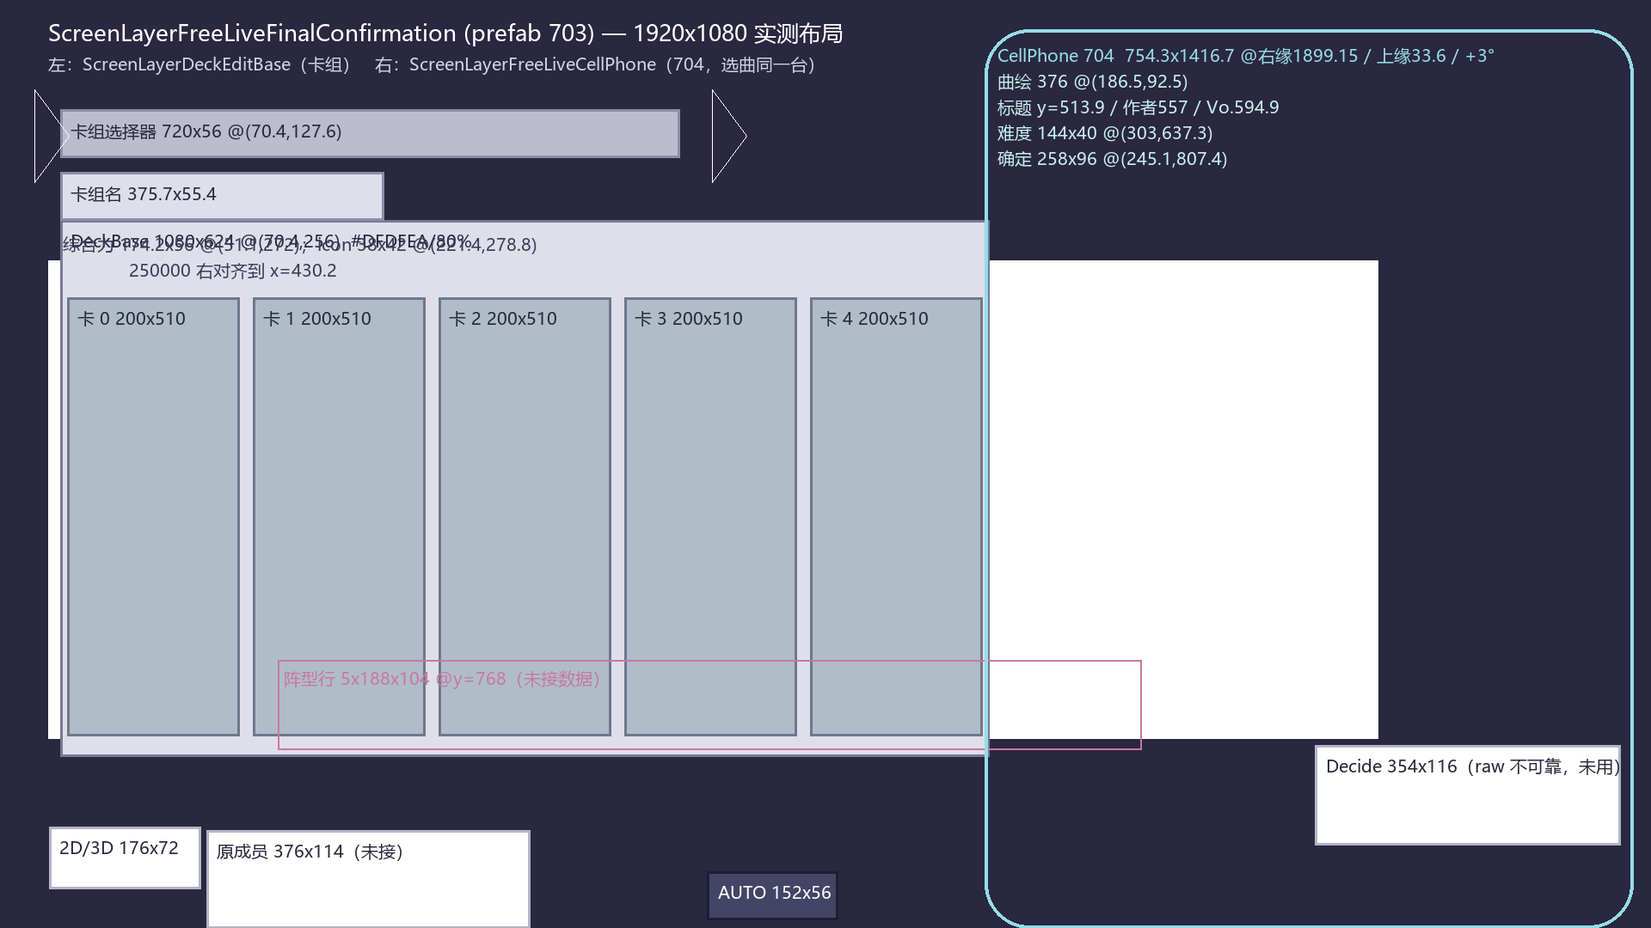
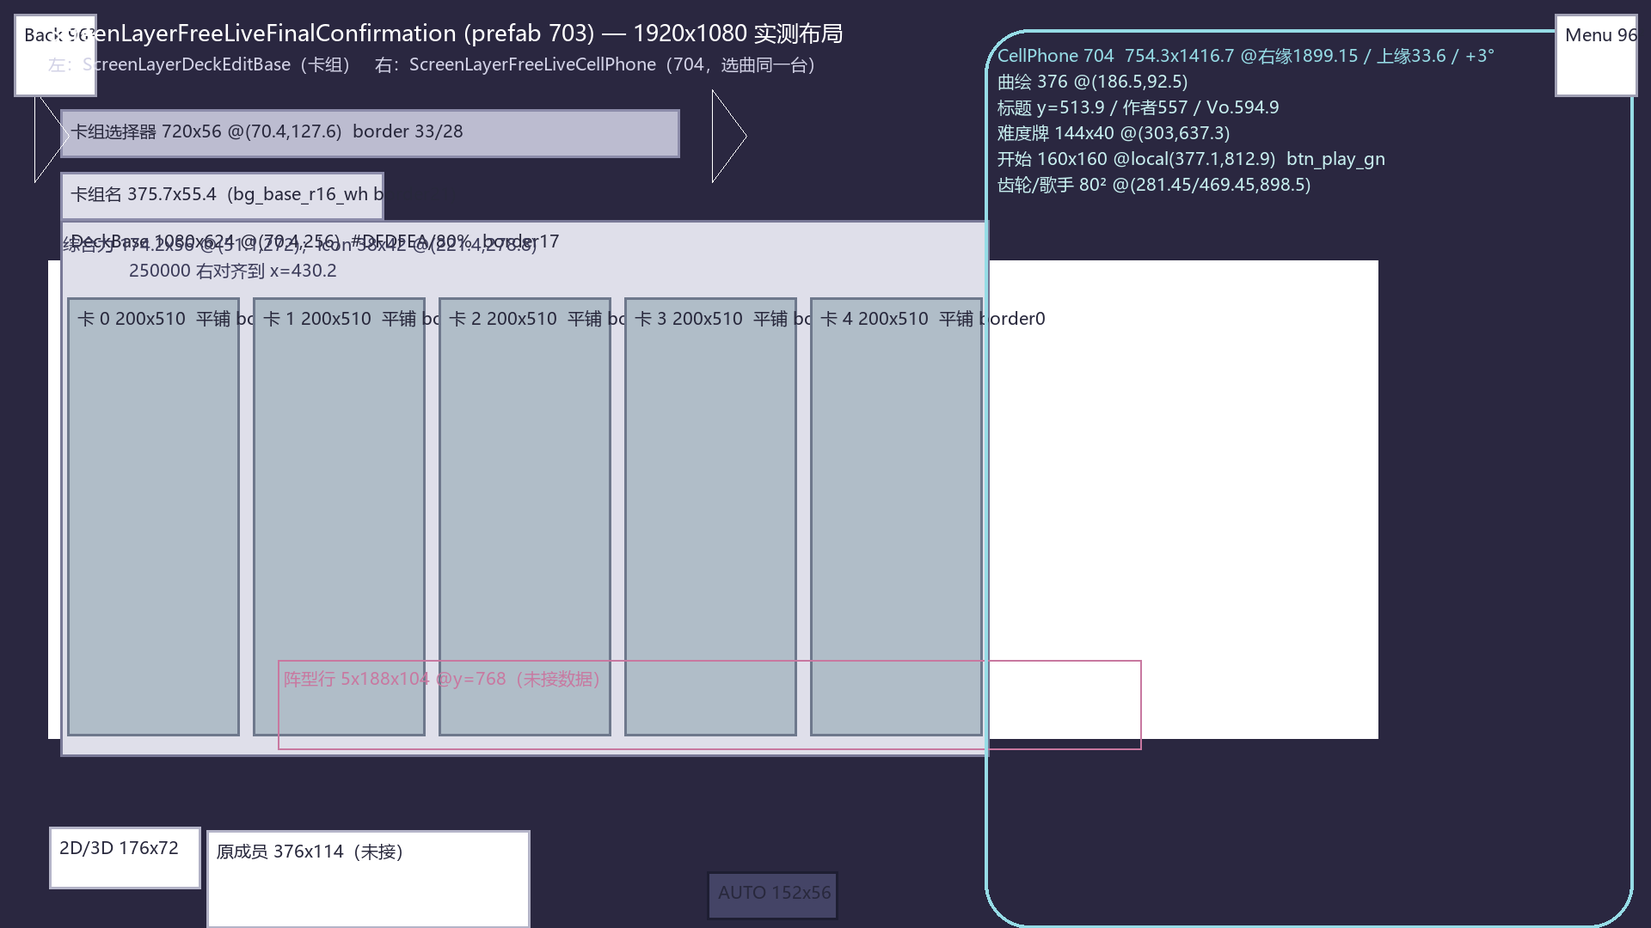
最终确认页：开始钮 / 顶栏 / 切图全部按 prefab 704 + 694 对齐
之前那版虽然把手机换成了 754 宽，但开始控件还是我画的「258x96 确定」+
5 个难度盘，卡槽是 16px 圆角长药丸，顶栏也没有 —— 和原作截图对不上。

手机（prefab 704）
- 最终确认页没有难度选择：删掉 5 个难度盘，只留 144x40 的难度牌 @(303,637.3)。
- 开始钮改成 prefab 里真实存在的 `SoloLiveFinalConfirmButton` / `PlayButton`：
  160x160 @ 手机本地 (377.1,812.9)，sprite `btn_play_gn`（不是选曲那颗
  258x96 的 PositiveButton，也不是手画的绿圆）。
- 点击后先放 0.36s 薄荷色扩散环（3 圈 + 中心白闪），再返回 entry；
  main 的白色爆闪起点改成这颗钮（`gFinalPlayCenter`），不再用选曲手机
  确定的位置。
- 底部齿轮/歌手 80² @ local (281.45/469.45, 898.5)。

顶栏（prefab 694）
- 新增 `UIPartsBackButton` 96² @(16,16)：`btn_circle80_wh` + `icon_back_wh` 42²；
  `UIPartsMenuButton` 96² @(1808,16)：`icon_menu_wh` 40×34；图标都染 #444466。
- 两个钮画在画布 ox/oy 平移之后、贴窗口角，和选曲页一样不随 uiScale 缩。
- 返回 = 回选曲；菜单 = 回选曲并打开右侧抽屉（抽屉只有选曲页那一份，
  不复制第二份 MenuDialog）。

切图（全部来自 Sprite 资产的 m_Border，不是眼估）
- `bg_base_three_r16_wh` 17（原 16）、`bg_base_round_h56_wh` 横 33 / 竖 28
  （原 28/28）、`bg_base_r20_wh` 24。
- `bg_base_half_r16_wh` 是非对称 Border(左21/下1/右21/上25)，我们的
  addNinePatch 只吃对称值 —— 卡组名条改用 `bg_base_r16_wh`(21)，
  不再把上下边拉成怪线。
- 空卡槽 `Empty/Frame` 是 `base_wh`，Border 0 = 纯平面矩形；删掉 16px
  圆角（圆角只在有卡面的 cardFrame_M_4 上）。

暂不接（按用户要求 / 缺数据）：真实卡组数据（空槽）、角色羁绊按钮、
原始成员 MV、阵型行、BGUnder 黄条（sprite 未导出）。

文档：SELECT-UI.md 第三轮补上上述节点/边框/开始钮；docs/final-confirm-1920.png
更新为「难度牌 + 160 开始钮 + 顶栏」。

diff --git a/game/SongSelect.cpp b/game/SongSelect.cpp
@@ -532,6 +532,9 @@ void debugOpenMenuDrawer(bool open)
 // 开始，而是先停在这里；Start 才把 action 交给 main。整个页面在
 // drawSongSelect 顶部单独绘制，底下的列表/手机不参与命中测试。
 bool gFinalConfirmOpen = false;
+// 最终页开始钮（160x160）在窗口坐标里的中心；main 的白色爆闪从这起，
+// 不是选曲手机那颗 258x96 确定的位置。
+ImVec2 gFinalPlayCenter{0.0f, 0.0f};
 int gFinalEntry = -1;
 int gFinalDifficulty = 3;
 int gFinalVocal = 0;
@@ -2931,7 +2934,7 @@ namespace
         const GLuint deckTex = finalTex(renderer, "bg_base_three_r16_wh");
         if (deckTex != 0) {
             addNinePatch(dl, deckTex, 36, 36, ImVec2(deckX, deckY),
-                ImVec2(deckX + deckW, deckY + deckH), 16.0f, 16.0f, k,
+                ImVec2(deckX + deckW, deckY + deckH), 17.0f, 17.0f, k,
                 IM_COL32(223, 223, 234, 204));
         } else {
             dl->AddRectFilled(ImVec2(deckX, deckY), ImVec2(deckX + deckW, deckY + deckH),
@@ -2967,7 +2970,7 @@ namespace
             const ImVec2 sel1(790.5f * k, 183.6f * k);
             const GLuint selTex = finalTex(renderer, "bg_base_round_h56_wh");
             if (selTex != 0) {
-                addNinePatch(dl, selTex, 28, 28, sel0, sel1, 28.0f, 28.0f, k,
+                addNinePatch(dl, selTex, 66, 56, sel0, sel1, 33.0f, 28.0f, k,
                     IM_COL32(188, 188, 208, 230));
             } else {
                 dl->AddRectFilled(sel0, sel1, IM_COL32(188, 188, 208, 230), 28.0f * k);
@@ -2977,13 +2980,16 @@ namespace
                 IM_COL32(68, 68, 102, 255), "默认队伍");
         }
 
-        // DeckName 375.7x55.4 @ (70.4,200.7)：当前卡组的名字条。
         {
+            // DeckName 375.7x55.4 @ (70.4,200.7)：当前卡组的名字条。
+            // bg_base_half_r16_wh 的 Border 是 (左21/下1/右21/上25)，没有对称
+            // 九宫格（我们的 addNinePatch 只吃对称值），硬套会把上下边拉成一条
+            // 怪线 —— 换成四角都是 21 的 bg_base_r16_wh。
             const ImVec2 n0(70.4f * k, 200.7f * k);
             const ImVec2 n1(446.1f * k, 256.1f * k);
-            const GLuint nameTex = finalTex(renderer, "bg_base_half_r16_wh");
+            const GLuint nameTex = finalTex(renderer, "bg_base_r16_wh");
             if (nameTex != 0) {
-                addNinePatch(dl, nameTex, 28, 28, n0, n1, 16.0f, 16.0f, k,
+                addNinePatch(dl, nameTex, 42, 42, n0, n1, 21.0f, 21.0f, k,
                     IM_COL32(223, 223, 234, 204));
             } else {
                 dl->AddRectFilled(n0, n1, IM_COL32(223, 223, 234, 204), 16.0f * k);
@@ -3039,7 +3045,11 @@ namespace
             const float x = cardsX + static_cast<float>(i) * (cardW + gap);
             const ImVec2 p0(x, cardsY);
             const ImVec2 p1(x + cardW, cardsY + cardH);
-            dl->AddRectFilled(p0, p1, IM_COL32(176, 189, 200, 255), 16.0f * k);
+            // Empty slot: prefab 703's `Empty/Frame` is `base_wh` (Border 0) -
+            // a FLAT #B0BDC8 rectangle, not a 16px pill. The rounding people
+            // see on filled cards comes from `cardFrame_M_4` on top of the art;
+            // there is no frame on an empty slot.
+            dl->AddRectFilled(p0, p1, IM_COL32(176, 189, 200, 255));
             const ImVec2 c((p0.x + p1.x) * 0.5f, (p0.y + p1.y) * 0.5f);
             const float d = 72.0f * k;
             if (circleTex != 0) {
@@ -3130,107 +3140,90 @@ namespace
                         IM_COL32(215, 212, 235, 255), v.c_str());
                 }
             }
-            // Difficulty row (read-only on this page): the same five 96px pads
-            // as the select phone, filled from the OTHER charts of this song in
-            // `entries` (same musicId + difficulty name). Selecting a different
-            // difficulty here would be a different chart, so the pads are not
-            // clickable - they only show what the deck is about to play.
+            // 最终确认页没有难度选择：只留 144x40 的难度牌（UIPartsMusicDifficultyLabel），
+            // 下面是手机自己的 SoloLiveFinalConfirmButton（160x160，btn_play_gn）。
+            // 这来自 prefab 704 的 `SoloLiveFinalConfirmButton` 节点，不是我们画的绿圆。
             {
-                const ChartEntry* byDiff[kDiffCount] = {};
-                for (const ChartEntry& e : entries) {
-                    const bool sameSong = (entry.musicId != 0 && e.musicId == entry.musicId)
-                        || (entry.musicId == 0 && e.title == entry.title);
-                    if (!sameSong) {
-                        continue;
+                const int d = std::clamp(difficulty, 0, kDiffCount - 1);
+                const float lw = 144.0f * ps;
+                const float lh = 40.0f * ps;
+                const ImVec2 l0(PX(303.0f), PY(637.3f));
+                dl->AddRectFilled(l0, ImVec2(l0.x + lw, l0.y + lh), kDiffColors[d], lh * 0.5f);
+                addTextCentered(dl, body, 24.0f * ps,
+                    ImVec2(l0.x + lw * 0.5f, l0.y + lh * 0.5f),
+                    IM_COL32(255, 255, 255, 255), kDiffNames[d]);
+            }
+            // Play button: prefab 704 `SoloLiveFinalConfirmButton` / `PlayButton`
+            // = 160x160 at phone-local (482..642, -386.5..-226.5) in the 1920
+            // overlay -> local top-left (297.1, 732.9), centre (377.1, 812.9).
+            // The 258x96 PositiveButton is the *select* mode and is hidden here.
+            const ImVec2 playC(PX(377.1f), PY(812.9f));
+            const float playD = 160.0f * ps;
+            {
+                const float pdx = playC.x - pivot.x;
+                const float pdy = playC.y - pivot.y;
+                gFinalPlayCenter = ImVec2(pivot.x + pdx * tc - pdy * ts + ox,
+                    pivot.y + pdx * ts + pdy * tc + oy);
+            }
+            {
+                const GLuint glow = selectTex(renderer, "eff_btn_circle_h80_a70_wh");
+                if (glow != 0) {
+                    const float gd = 180.0f * ps;
+                    dl->AddImage(reinterpret_cast<ImTextureID>(static_cast<std::uintptr_t>(glow)),
+                        ImVec2(playC.x - gd * 0.5f, playC.y - gd * 0.5f),
+                        ImVec2(playC.x + gd * 0.5f, playC.y + gd * 0.5f), ImVec2(0.0f, 0.0f),
+                        ImVec2(1.0f, 1.0f), IM_COL32(119, 238, 221, 40));
+                }
+                const GLuint playTex = finalTex(renderer, "btn_play_gn");
+                if (playTex != 0) {
+                    dl->AddImage(reinterpret_cast<ImTextureID>(static_cast<std::uintptr_t>(playTex)),
+                        ImVec2(playC.x - playD * 0.5f, playC.y - playD * 0.5f),
+                        ImVec2(playC.x + playD * 0.5f, playC.y + playD * 0.5f));
+                } else {
+                    dl->AddCircleFilled(playC, playD * 0.5f, IM_COL32(119, 238, 221, 255), 48);
+                    dl->AddTriangleFilled(ImVec2(playC.x - 18.0f * ps, playC.y - 28.0f * ps),
+                        ImVec2(playC.x + 28.0f * ps, playC.y),
+                        ImVec2(playC.x - 18.0f * ps, playC.y + 28.0f * ps),
+                        IM_COL32(62, 62, 95, 255));
+                }
+            }
+            // Click -> a short mint ring burst, then hand the entry back to main
+            // (main's confirm-white-flash covers the load, same as the select 确定).
+            {
+                static float fxAt = -1.0f;
+                // Reset if a previous run was interrupted.
+                if (fxAt >= 0.0f && static_cast<float>(timeSec) - fxAt > 1.0f) {
+                    fxAt = -1.0f;
+                }
+                const float now = static_cast<float>(timeSec);
+                if (fxAt < 0.0f && clicked) {
+                    const ImVec2 lm(mouse.x - pivot.x, mouse.y - pivot.y);
+                    const ImVec2 lp(pivot.x + lm.x * tc + lm.y * ts, pivot.y - lm.x * ts + lm.y * tc);
+                    const float half = playD * 0.5f;
+                    if (lp.x >= playC.x - half && lp.x <= playC.x + half
+                        && lp.y >= playC.y - half && lp.y <= playC.y + half) {
+                        fxAt = now;
+                        ui::se(ui::SeStart);
                     }
-                    const std::string dn = toUpper(e.difficulty);
-                    for (int d = 0; d < kDiffCount; ++d) {
-                        if (dn == kDiffNames[d]) {
-                            byDiff[d] = &e;
+                }
+                if (fxAt >= 0.0f) {
+                    const float t = now - fxAt;
+                    if (t < 0.36f) {
+                        for (int r = 0; r < 3; ++r) {
+                            const float p = std::clamp((t - 0.05f * static_cast<float>(r)) / 0.30f, 0.0f, 1.0f);
+                            if (p <= 0.0f) {
+                                continue;
+                            }
+                            const float rad = (playD * 0.5f) * (1.0f + 1.8f * p);
+                            dl->AddCircle(playC, rad, IM_COL32(119, 238, 221,
+                                static_cast<int>(200.0f * (1.0f - p))), 64, 4.0f * ps);
                         }
-                    }
-                }
-                static const char* kOff[kDiffCount] = {
-                    "btn_difficulty_easy_off", "btn_difficulty_normal_off",
-                    "btn_difficulty_hard_off", "btn_difficulty_expert_off",
-                    "btn_difficulty_master_off"};
-                static const char* kOn[kDiffCount] = {
-                    "btn_difficulty_easy_on", "btn_difficulty_normal_on",
-                    "btn_difficulty_hard_on", "btn_difficulty_expert_on",
-                    "btn_difficulty_master_on"};
-                const GLuint ringTex = selectTex(renderer, "eff_btn_difficulty_selected_wh");
-                const GLuint glowTex = selectTex(renderer, "eff_btn_circle_h80_a70_wh");
-                const float imgD = 112.0f * ps;
-                const float selD = 136.0f * ps;
-                float dx = PX(137.2f);
-                for (int d = 0; d < kDiffCount; ++d) {
-                    const bool active = (d == difficulty);
-                    const ImVec2 c(dx, PY(710.2f));
-                    if (active && ringTex != 0) {
-                        dl->AddImage(reinterpret_cast<ImTextureID>(static_cast<std::uintptr_t>(ringTex)),
-                            ImVec2(c.x - selD * 0.5f, c.y - selD * 0.5f),
-                            ImVec2(c.x + selD * 0.5f, c.y + selD * 0.5f));
-                    }
-                    if (active && glowTex != 0) {
-                        const float gw = 104.0f * ps;
-                        const ImU32 glowCol = (kDiffColors[d] & ~IM_COL32_A_MASK) | (150u << IM_COL32_A_SHIFT);
-                        dl->AddImage(reinterpret_cast<ImTextureID>(static_cast<std::uintptr_t>(glowTex)),
-                            ImVec2(c.x - gw * 0.5f, c.y - gw * 0.5f),
-                            ImVec2(c.x + gw * 0.5f, c.y + gw * 0.5f), ImVec2(0.0f, 0.0f),
-                            ImVec2(1.0f, 1.0f), glowCol);
-                    }
-                    const GLuint dt = selectTex(renderer, active ? kOn[d] : kOff[d]);
-                    if (dt != 0) {
-                        dl->AddImage(reinterpret_cast<ImTextureID>(static_cast<std::uintptr_t>(dt)),
-                            ImVec2(c.x - imgD * 0.5f, c.y - imgD * 0.5f),
-                            ImVec2(c.x + imgD * 0.5f, c.y + imgD * 0.5f), ImVec2(0.0f, 0.0f),
-                            ImVec2(1.0f, 1.0f),
-                            byDiff[d] != nullptr ? IM_COL32(255, 255, 255, 255)
-                                                 : IM_COL32(120, 126, 145, 255));
+                        dl->AddCircleFilled(playC, playD * (0.5f + t * 0.8f),
+                            IM_COL32(255, 255, 255, static_cast<int>(120.0f * (1.0f - t / 0.36f))), 48);
                     } else {
-                        dl->AddCircleFilled(c, 96.0f * ps * 0.5f,
-                            byDiff[d] != nullptr ? kDiffColors[d] : IM_COL32(120, 126, 145, 255), 40);
+                        fxAt = -1.0f;
+                        phoneStartHit = true;
                     }
-                    char lvBuf[16];
-                    const char* lv = byDiff[d] != nullptr ? levelText(*byDiff[d], lvBuf, sizeof(lvBuf)) : "-";
-                    addTextCentered(dl, body, 46.0f * ps, c, IM_COL32(255, 255, 255, 255), lv);
-                    addTextCentered(dl, body, 24.0f * ps,
-                        ImVec2(c.x - 1.63f * ps, c.y + 66.77f * ps),
-                        byDiff[d] != nullptr ? IM_COL32(255, 255, 255, 255)
-                                             : IM_COL32(150, 150, 170, 255),
-                        kDiffNames[d]);
-                    dx += 120.0f * ps;
-                }
-            }
-
-            // 确定 (PositiveButton): 258x96 @ (245.1,807.4), the official mint
-            // outline + halo, same as the select screen.
-            const float okW = 258.0f * ps;
-            const float okH = 96.0f * ps;
-            const ImVec2 okA(PX(245.1f), PY(807.4f));
-            const ImVec2 okB(okA.x + okW, okA.y + okH);
-            const GLuint okGlowTex = selectTex(renderer, "eff_btn_round_h80_a70_wh");
-            const GLuint okLineTex = selectTex(renderer, "btn_round_line_h80_wh");
-            if (okGlowTex != 0) {
-                addNinePatch(dl, okGlowTex, 112, 104, ImVec2(okA.x - 5.0f * ps, okA.y - 5.0f * ps),
-                    ImVec2(okB.x + 5.0f * ps, okB.y + 5.0f * ps), 56.0f, 52.0f, ps,
-                    IM_COL32(255, 255, 255, 30));
-            }
-            if (okLineTex != 0) {
-                addNinePatch(dl, okLineTex, 106, 96, okA, okB, 52.0f, 0.0f, ps,
-                    IM_COL32(119, 238, 221, 255));
-            } else {
-                dl->AddRect(okA, okB, IM_COL32(119, 238, 221, 255), okH * 0.5f, 0, 2.0f * ps);
-            }
-            addTextCentered(dl, body, 32.0f * ps, ImVec2((okA.x + okB.x) * 0.5f, (okA.y + okB.y) * 0.5f),
-                IM_COL32(119, 238, 221, 255), "确定");
-            // Hit test: undo the tilt around the phone centre, then compare in
-            // flat phone-local coordinates.
-            {
-                const ImVec2 lm(mouse.x - pivot.x, mouse.y - pivot.y);
-                const ImVec2 lp(pivot.x + lm.x * tc + lm.y * ts, pivot.y - lm.x * ts + lm.y * tc);
-                if (clicked && lp.x >= okA.x && lp.x <= okB.x && lp.y >= okA.y && lp.y <= okB.y) {
-                    phoneStartHit = true;
                 }
             }
 
@@ -3339,6 +3332,57 @@ namespace
             for (int v = contentVtx0; v < dl->VtxBuffer.Size; ++v) {
                 dl->VtxBuffer[v].pos.x += ox;
                 dl->VtxBuffer[v].pos.y += oy;
+            }
+        }
+
+        // Header: the final page inherits the select header's two round buttons
+        // (prefab 694: 96x96 at (16,16) and (1808,16), btn_circle80_wh +
+        // icon_back_wh 42x42 / icon_menu_wh 40x34, tint #444466). They are drawn
+        // in WINDOW coordinates after the ox/oy shift, so at uiScale<1 they stay
+        // pinned to the window corners exactly like on the select screen.
+        {
+            const float btnD = 96.0f * k;
+            const float top = 16.0f * k;
+            const float leftX = 16.0f * k;
+            const float rightX = w - 16.0f * k - btnD;
+            const GLuint circleTex = selectTex(renderer, "btn_circle80_wh");
+            const GLuint backTex = selectTex(renderer, "icon_back_wh");
+            const GLuint menuTex = selectTex(renderer, "icon_menu_wh");
+            const auto headerButton = [&](float x, const char* id, GLuint icon, float iw, float ih) {
+                ImGui::SetCursorScreenPos(ImVec2(x, top));
+                ImGui::PushID(id);
+                ImGui::InvisibleButton("##hdr", ImVec2(btnD, btnD));
+                const bool hot = ImGui::IsItemHovered();
+                const bool hit = ImGui::IsItemClicked();
+                ImGui::PopID();
+                const ImVec2 c(x + btnD * 0.5f, top + btnD * 0.5f);
+                if (circleTex != 0) {
+                    dl->AddImage(reinterpret_cast<ImTextureID>(static_cast<std::uintptr_t>(circleTex)),
+                        ImVec2(x, top), ImVec2(x + btnD, top + btnD), ImVec2(0.0f, 0.0f),
+                        ImVec2(1.0f, 1.0f), IM_COL32(255, 255, 255, hot ? 255 : 235));
+                } else {
+                    dl->AddCircleFilled(c, btnD * 0.5f, IM_COL32(255, 255, 255, 235), 40);
+                }
+                if (icon != 0) {
+                    dl->AddImage(reinterpret_cast<ImTextureID>(static_cast<std::uintptr_t>(icon)),
+                        ImVec2(c.x - iw * 0.5f, c.y - ih * 0.5f),
+                        ImVec2(c.x + iw * 0.5f, c.y + ih * 0.5f), ImVec2(0.0f, 0.0f),
+                        ImVec2(1.0f, 1.0f), IM_COL32(68, 68, 102, 255));
+                }
+                return hit;
+            };
+            const bool backHit = headerButton(leftX, "finalback", backTex, 42.0f * k, 42.0f * k);
+            const bool menuHit = headerButton(rightX, "finalmenu", menuTex, 40.0f * k, 34.0f * k);
+            if (backHit || menuHit) {
+                gFinalConfirmOpen = false;
+                if (menuHit) {
+                    // The drawer lives on the select screen; go back there and
+                    // open it, so the final page does not need a second copy of
+                    // the whole MenuDialog.
+                    gMenuOpen = true;
+                }
+                ui::se(ui::SeClick);
+                finalResult = SelectNone;
             }
         }
         return finalResult;
@@ -4051,6 +4095,11 @@ int drawSongSelect(platform::Renderer& renderer, const std::vector<ChartEntry>& 
             selected = gFinalEntry;
             vocalIndex = gFinalVocal;
             action = finalAction;
+            // main's white burst / decide burst should start from the final
+            // page's big play button, not from the (not drawn) select phone.
+            if (confirmCenter != nullptr) {
+                *confirmCenter = gFinalPlayCenter;
+            }
         }
         ImGui::End();
         if (gSelectFillDisabled) {

diff --git a/SELECT-UI.md b/SELECT-UI.md
@@ -999,17 +999,32 @@ const std::string candidates[] = {
 | 5 张卡 | 200×510，间距 16，从 x=78.4、**y=346** 起 | 卡槽空态：`base_wh` #B0BDC8 + 72 圆 + 36 加号 |
 | 阵型行 | 5×188×104 @ y=768，x 323..1327 | 需要阵型数据，暂缺 |
 | 底部左 | 2D/3D 模式 176×72 @(57,962)；原成员 376×114 @(240.3,36.1 from bottom)；AUTO 152×56 @(898.6,1014.4) | 我们只留了模式与 AUTO |
-| 決定 | 354.5×116 | prefab 里挂在一个 3840×2160 的 `BottomRight` overlay 下，raw 坐标会算到屏幕外；**没有可靠的绝对位置**，所以这一页用手机上那颗 258×96 的确定来做开始 |
+| 決定 | 354.5×116 | prefab 里挂在一个 3840×2160 的 `BottomRight` overlay 下，raw 坐标会算到屏幕外；**没有可靠的绝对位置**。最终页的实际开始钮是手机 prefab 704 的 `SoloLiveFinalConfirmButton`（160×160，见下），这个 354×116 的 Decide 不用 |
 
 **已改**（`drawFinalConfirm`）：
 
 - 手机换回 704 的真实几何（754.3 宽、右缘 1899.15、上缘 33.6、+3°），曲绘 y=92.5、
-  标题 513.9、作者 557、Vo. 594.9；难度盘 5×96 @ y=710.2，等级来自同一首歌的
-  其他谱面（当前难度选中），确定 258×96 @(245.1,807.4)，
-  底部齿轮/歌手图标 80² @ local x 281.45/469.45；
+  标题 513.9、作者 557、Vo. 594.9；**难度只留 144×40 的牌子 @(303,637.3)**，下面是
+  prefab 704 的 `SoloLiveFinalConfirmButton` / `PlayButton`：**160×160 @ 手机本地
+  (377.1,812.9)**，sprite `btn_play_gn`（不是我们画的大绿圆，也不是选曲那颗
+  258×96 确定）；底部齿轮/歌手图标 80² @ local x 281.45/469.45；
+- 顶栏：`UIPartsBackButton` 96² @(16,16)（`btn_circle80_wh` + `icon_back_wh` 42²）
+  与 `UIPartsMenuButton` 96² @(1808,16)（`icon_menu_wh` 40×34），图标染 #444466，
+  和选曲顶栏同一套；菜单钮回选曲并打开抽屉（抽屉只有选曲页那一份，不复制）。
+- 点开始钮先放 0.36s 的薄荷色扩散环，然后把 entry 交回 main，main 的白色爆闪
+  接着盖住谱面加载（和选曲 确定 同一条路径）。
+- **切图**：面板 sprite 的 Border 全部按 AssetRipper 的 `m_Border` 取 —— `bg_base_r20_wh` 24、
+  `bg_base_three_r16_wh` **17**（之前用 16）、`bg_base_round_h56_wh` 横 33 / 竖 28
+  （之前 28/28）、`bg_base_half_r16_wh` 是 **左21/下1/右21/上25 的非对称九宫格**，
+  我们的 `addNinePatch` 只吃对称值，所以名字条改用 `bg_base_r16_wh`（21 对称）。
+  空卡槽 `Empty/Frame` 是 `base_wh`，**Border = 0，是纯平面矩形**，之前画 16px
+  圆角变成"长药丸"是错的；圆角只存在于有卡面的 `cardFrame_M_4` 上。
 - 补了卡组选择器、卡组名条、综合力（标题 + icon + 右对齐数值 + info）；
-- 卡槽改到 y=346 起（和 `DeckCardList` 的顶边一致），空态配色照 `base_wh`；
-- 整页内容仍按 1920×1080 画布居中（`uiScale < 1` 时 ox/oy 平移）。
+- 卡槽从 y=346 起（`DeckCardList` 顶边），200×510、间距 16，空态平铺 #B0BDC8；
+  间距 16 / 左右留 8 是 `(1080 − 5×200 − 2×8) / 4 = 16` 推出来的 —— DeckView 的
+  布局脚本把 spacing 存在 MonoBehaviour 里，prefab 的 LayoutGroup 字段是空的；
+- 整页内容按 1920×1080 画布居中（`uiScale < 1` 时 ox/oy 平移），顶栏两个圆钮
+  画在平移之后、贴窗口角，和选曲页一样不随画布缩。
 
 **还没做**：卡组真实数据（5 张卡）、阵型行、羁绊按钮、背景底部黄条（资源未导出）、
 `BottomRight/Decide` 的可靠坐标。这几项都不该靠猜，等有数据/截图再补。
